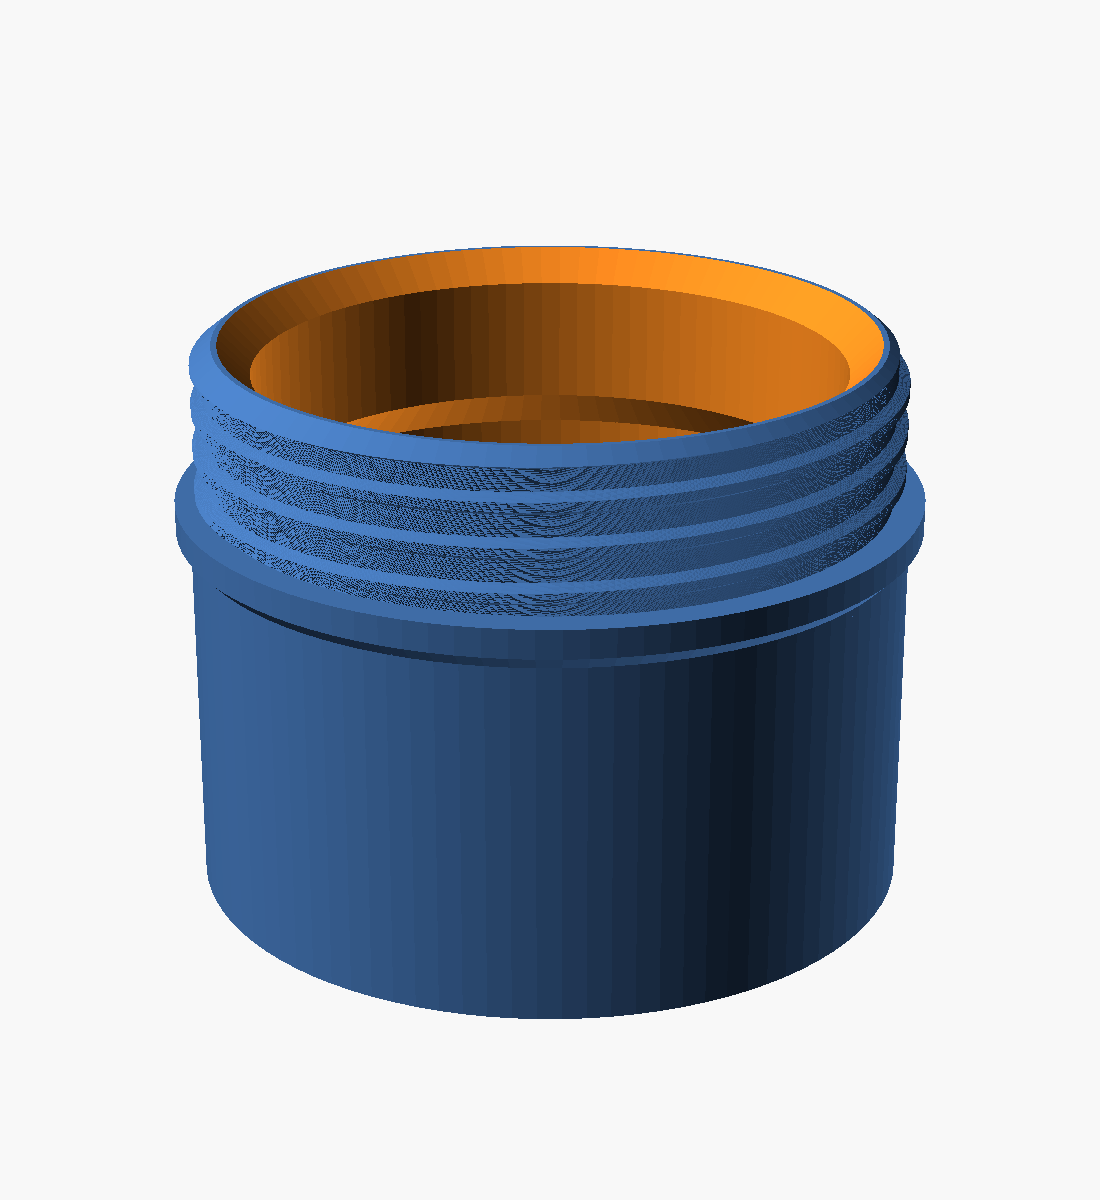
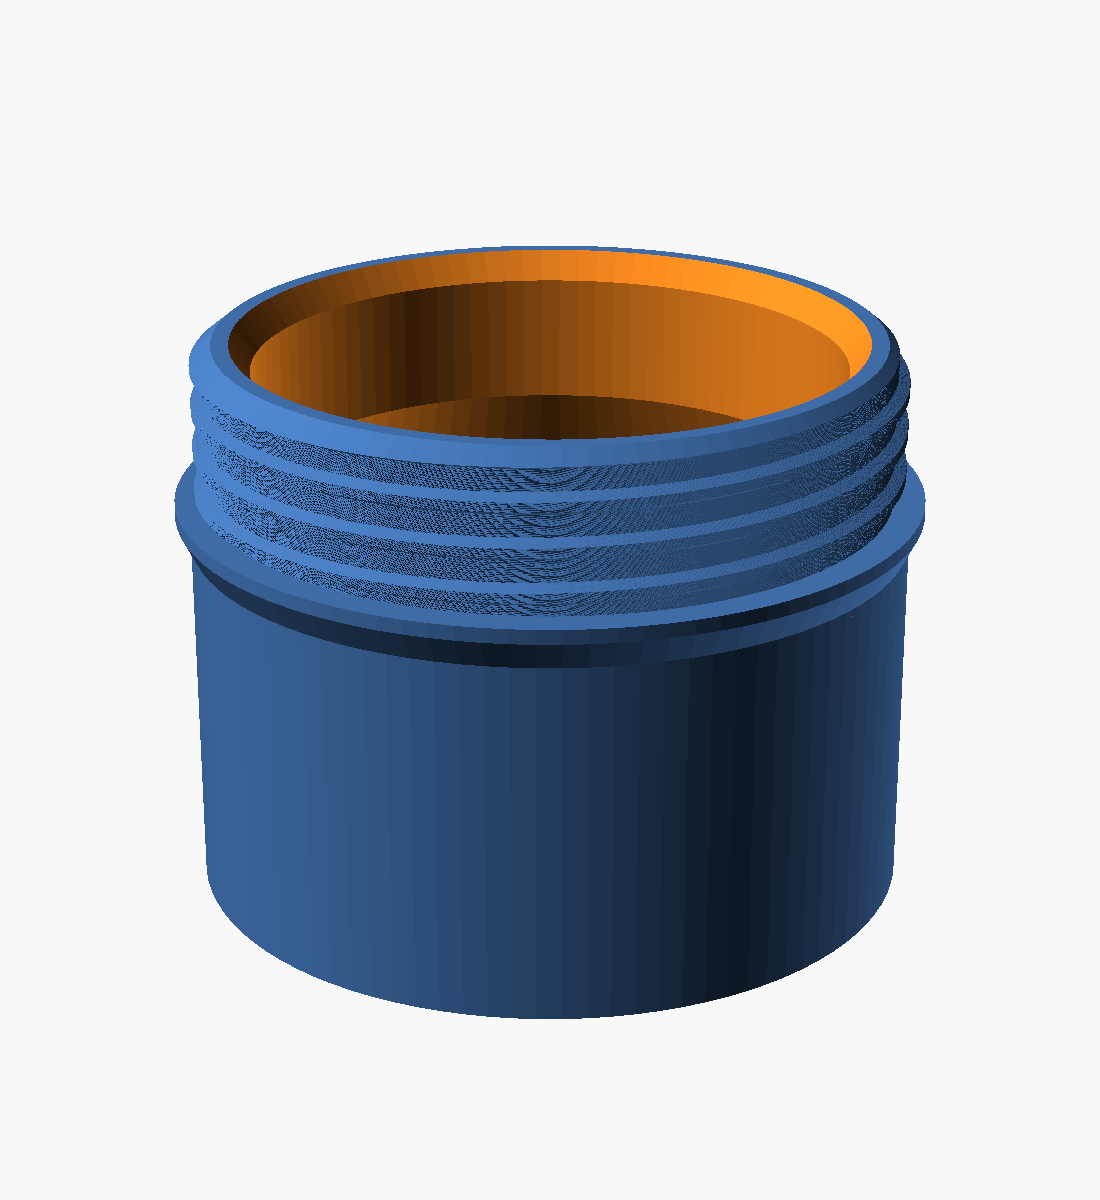
panel_spigot: the transition was 45 degrees all the way round, and that is why it failed
The first print failed where the tube meets the thread, and kept failing with
supports on. Measuring the exported mesh says why: the root cone was exactly as
tall as the collar -- 3 mm to fall 3 mm of radius -- and the collar's chamfer
was 1 mm over 1 mm, so the whole transition, inside and out, was one continuous
45 degree surface. 810 mm2 of it, by far the largest overhang in the part, met
at the top of a free-standing shell 25 mm tall. Supports never came into it: a
slicer measuring from horizontal reads 45 degrees as shallow and generates
nothing, and what it would generate has to climb 25 mm up inside a Ø46 bore.

Three changes, none of them a support setting:

  root_cone   the cone's own length, no longer tied to collar_t. At 6 mm it
              crosses the collar and climbs 3 mm on into the tube, which is
              both a gentler angle and a longer fillet at the cantilever's root.
  wall 2      not 1.5. A thicker tube has a smaller bore, so the cone has less
              radius to fall -- and 2 mm is five lines of a 0.4 nozzle, where
              1.5 was three and a half: two perimeters and a ribbon of gap fill
              up the whole 25 mm shell. panel_spigot_stout gives it 2.5.
  collar_blend is taller than it is deep, getting all of collar_t bar the
              millimetre of straight wall the bearing face needs.

Measured on the exported print orientation, then and now:

  root cone, inside      45.0 deg from vertical  ->  22.6
[…]

diff --git a/README.md b/README.md
@@ -492,16 +492,55 @@ Three things are worth knowing before you print one:
   it, all round, is what bears on the panel — 1 mm at the Ø52 default, and that assumes the
   hole is drilled at size. Drill it Ø51 and half the ring is gone. `panel_spigot_wide` gives
   it 2 mm. The figure is echoed on every render.
-- **The root of the tube is thickened from the inside.** A Ø50 × 1.5 mm tube standing 25 mm
-  proud is a cantilever and it breaks where it meets the collar. The bore has to step from
-  the tube's Ø47 down to the thread's Ø41 there anyway, so the step is a cone rather than a
-  shoulder: the fillet at the root and the funnel that keeps a cable off the edge, for free.
+- **The root of the tube is thickened from the inside.** A Ø50 tube standing 25 mm proud is
+  a cantilever and it breaks where it meets the collar. The bore has to step from the tube's
+  Ø46 down to the thread's Ø41 there anyway, so the step is a cone rather than a shoulder:
+  the fillet at the root and the funnel that keeps a cable off the edge, for free. How *long*
+  that cone is, though, is the whole part — see below.
 
-Printed standing on the tube's mouth with the thread pointing **up** — the best orientation a
-printed thread gets, and the only overhang left is the collar's 1 mm ledge. The footprint is
-a thin Ø50/Ø47 ring, about 2.3 cm², so give it a brim.
+Printed standing on the tube's mouth with the thread pointing **up**. That is the best
+orientation a printed thread gets, and it is also the only one on offer: turned over, the
+collar's bearing face becomes a 300 mm² flat ceiling and the part stands on the thread's Ø46
+tip. The footprint is a thin Ø50/Ø46 ring, about 3 cm², so give it a brim.
 
 ![Print layout](images/panel_spigot_print.png)
+
+### Why the first one failed, and what changed
+
+The first print of this part failed in the transition from the tube to the thread, and it
+kept failing with supports switched on. It was not a support problem — it was an angle
+problem, and measuring the exported mesh said so plainly:
+
+| | Then | Now |
+|---|---:|---:|
+| Root cone, inside (Ø46 → Ø41) | **45.0°** from vertical | **22.6°** |
+| Collar shoulder, outside (Ø50 → Ø52) | **45.0°** | **26.6°** |
+| Overhang area at 45° | **810 mm²** | **0** |
+| First-layer ring | 2.3 cm² | **3.0 cm²** |
+| Flat left at the thread's tip | 0.41 mm | **1.2 mm** |
+
+The root cone used to be exactly as tall as the collar — 3 mm to fall 3 mm of radius — and
+the collar's chamfer did the same 1 mm over 1 mm. So the *entire* transition, inside and out,
+was one continuous 45° surface, 810 mm² of it and by far the largest overhang in the part.
+45° is the angle that carries itself when everything else is right, and here nothing else
+was: the printer met it at the top of a free-standing shell 25 mm tall. Supports do not
+rescue it either, because a slicer measuring from horizontal sees 45° as *shallow* and
+generates nothing, and what it would generate has to grow 25 mm up the inside of a Ø46 bore.
+
+Three things fix it, and none of them is a support setting:
+
+- **`root_cone`** is the cone's own length, no longer tied to `collar_t`. At the default 6 mm
+  it crosses the 3 mm collar and climbs 3 mm on into the tube, which is both a gentler angle
+  and a longer fillet at the root of the cantilever.
+- **`wall` is 2 mm**, not 1.5. It helps twice: a thicker tube has a smaller bore, so the cone
+  has less radius to fall — and 2 mm is five lines of a 0.4 nozzle, where 1.5 mm was three
+  and a half, i.e. two perimeters and a ribbon of gap fill up the whole 25 mm shell.
+  `panel_spigot_stout` gives it 2.5 mm.
+- **`collar_blend` is taller than it is deep.** It gets all of `collar_t` bar the millimetre
+  of straight wall that keeps the bearing face flat, so the shoulder is 27° and not 45°.
+
+Both angles are derived, echoed on every render, and asserted: the model now refuses to
+export a spigot whose transition overhangs more than 40° from vertical.
 
 ### Two nuts, and why you might want the narrow one
 
